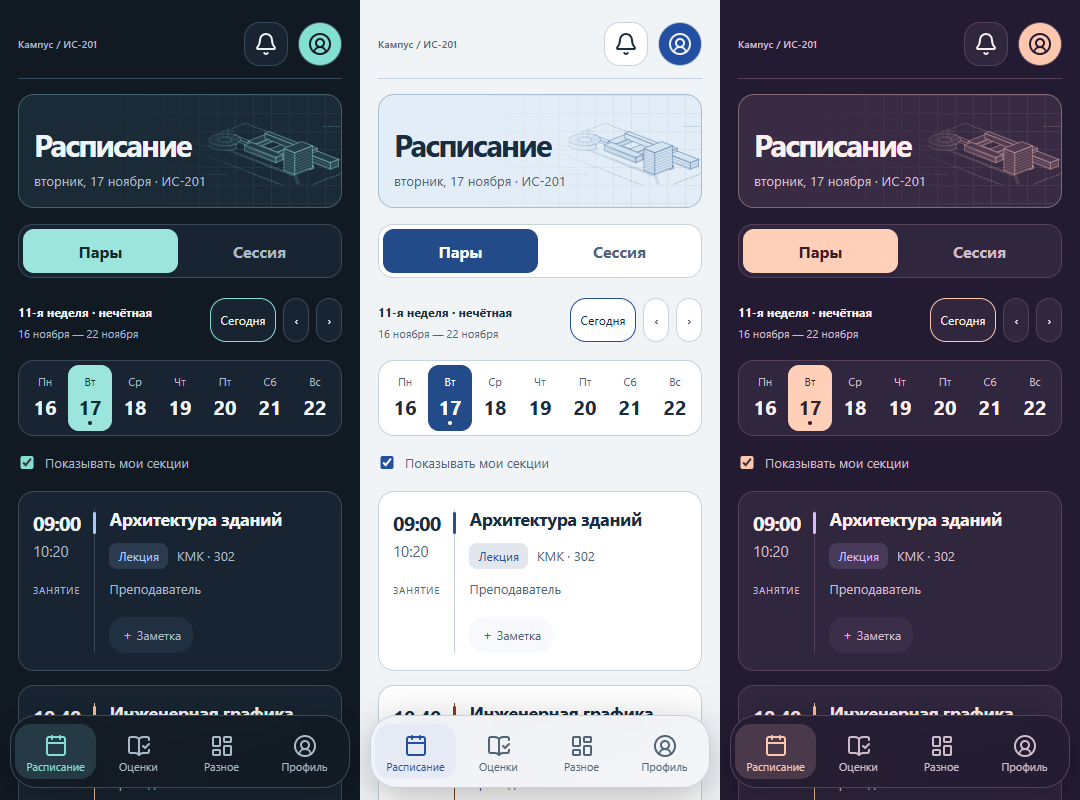
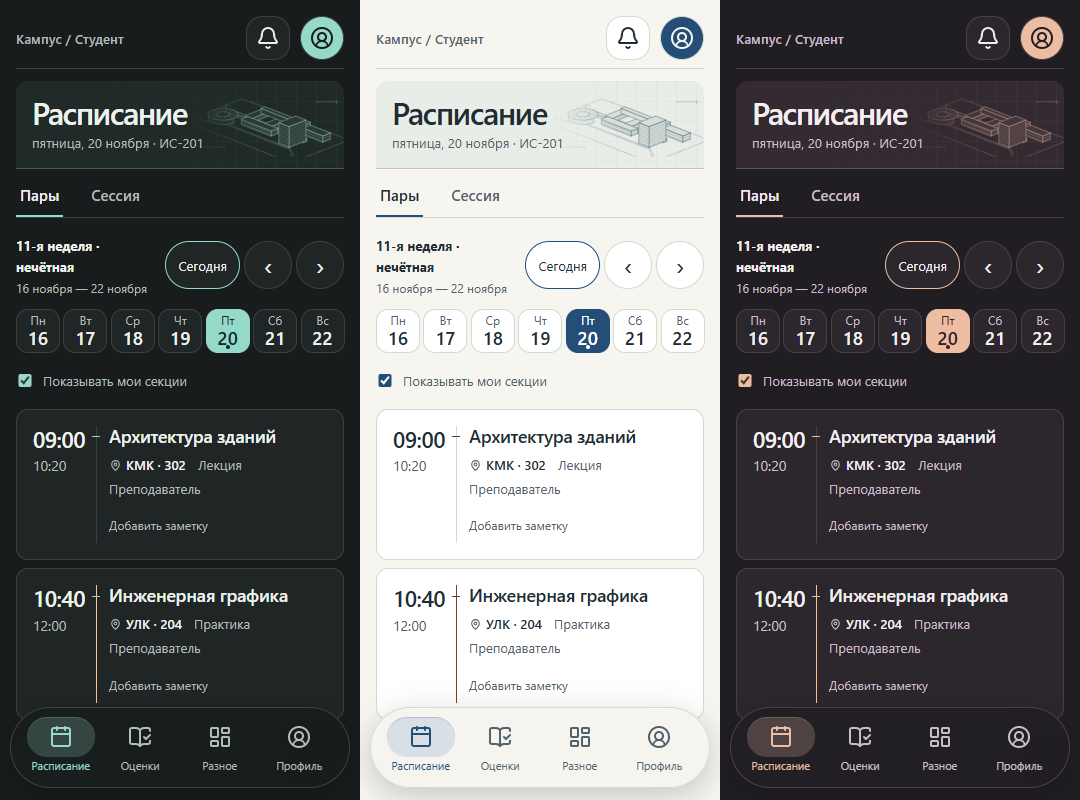
Уточнить оформление трёх тем и компоновку расписания

Changed region(s): [[0.0, 0.0, 1.0, 1.0], [0.55, 0.0, 0.7944, 0.0938], [0.0, 0.0312, 0.1222, 0.0625]]

diff --git a/public/style.css b/public/style.css
@@ -1,19 +1,19 @@
 *{box-sizing:border-box}
 :root{font-family:system-ui,-apple-system,'Segoe UI',sans-serif;color-scheme:dark}
 :root,.theme-sample[data-palette=dark]{
- --bg:#111923;--panel:#182431;--card:#203040;--ink:#eff5f6;--muted:#a9bac8;--line:#38495a;
- --accent:#83dfd1;--active:#9be5dc;--onactive:#102b30;--blue:#a6caff;--orange:#ffc192;--green:#91dfb3;--danger:#ffaba3;
- --cover:#1a2b37;--drawing:#85c9bf;--drawing-roof:#253d47;--rule:#42606b
+ --bg:#181c1c;--panel:#202525;--card:#2b3131;--ink:#edf2ee;--muted:#b1bdb7;--line:#394240;
+ --accent:#95d9c8;--active:#95d9c8;--onactive:#102b30;--blue:#a6caff;--orange:#ffc192;--green:#91dfb3;--danger:#ffaba3;
+ --cover:#202a28;--drawing:#87b8a9;--drawing-roof:#2c3934;--rule:#46564e
 }
 body[data-theme=light],.theme-sample[data-palette=light]{
- color-scheme:light;--bg:#f1f4f7;--panel:#fff;--card:#f7f9fc;--ink:#182c42;--muted:#506477;--line:#c7d2dc;
- --accent:#234fa3;--active:#234a89;--onactive:#fff;--blue:#294d91;--orange:#893c15;--green:#176444;--danger:#a4313c;
- --cover:#e3edf7;--drawing:#5379a3;--drawing-roof:#d5e4f1;--rule:#a5bed5
+ color-scheme:light;--bg:#f6f5ef;--panel:#fff;--card:#eeeee7;--ink:#202d33;--muted:#52616a;--line:#d6d9d1;
+ --accent:#244e78;--active:#244e78;--onactive:#fff;--blue:#294d91;--orange:#893c15;--green:#176444;--danger:#a4313c;
+ --cover:#e8ede8;--drawing:#526d7c;--drawing-roof:#d7dfda;--rule:#bac8c0
 }
 body[data-theme=violet],.theme-sample[data-palette=violet]{
- --bg:#231b31;--panel:#30263e;--card:#3a2e49;--ink:#fff0ee;--muted:#cebcca;--line:#524159;
- --accent:#ffc7ae;--active:#ffcfb7;--onactive:#381e2b;--blue:#d5bbff;--orange:#ffc18c;--green:#ace0bc;--danger:#ffa9aa;
- --cover:#382b43;--drawing:#d5a8a6;--drawing-roof:#503b50;--rule:#816876
+ --bg:#211e23;--panel:#2b272d;--card:#353038;--ink:#f4eef1;--muted:#c9bdc7;--line:#484048;
+ --accent:#edbda2;--active:#edbda2;--onactive:#381e2b;--blue:#d5bbff;--orange:#ffc18c;--green:#ace0bc;--danger:#ffa9aa;
+ --cover:#332b31;--drawing:#c19888;--drawing-roof:#44383c;--rule:#635453
 }
 body{margin:0;background:var(--bg);color:var(--ink)}button,input,select,textarea{font:inherit}button,a,input,select,textarea{-webkit-tap-highlight-color:transparent}button{cursor:pointer;color:inherit;border:1px solid var(--line);background:var(--panel);border-radius:16px;padding:12px 18px;min-height:44px}button:hover{border-color:var(--accent)}button:disabled{opacity:.5;cursor:wait}button:focus-visible,a:focus-visible,input:focus-visible,textarea:focus-visible,select:focus-visible{outline:3px solid var(--accent);outline-offset:3px}input,select,textarea{width:100%;background:var(--bg);color:var(--ink);border:1px solid var(--line);border-radius:12px;padding:13px;margin-top:6px;min-width:0}textarea{min-height:100px;resize:vertical}label{display:block;color:var(--muted);font-size:0.8125rem;margin:15px 0}h1,h2,h3,p{margin:0}h1{font-size:2.375rem;letter-spacing:-1.5px}h2{font-size:1.4375rem;letter-spacing:-.6px}h3{font-size:1.1875rem;line-height:1.35}p{line-height:1.6}small,.muted{color:var(--muted)}.shell{max-width:1500px;margin:auto;display:grid;grid-template-columns:240px 1fr;min-height:100vh}.sidebar{padding:38px 24px;border-right:1px solid var(--line);position:sticky;top:0;height:100vh;display:flex;flex-direction:column;gap:35px}.brand{display:flex;align-items:center;gap:12px;font-size:1.4375rem;font-weight:750;letter-spacing:2px}.logo{width:34px;height:34px;border:2px solid var(--accent);border-radius:50%;display:inline-grid;place-items:center;transform:rotate(-30deg)}.logo:after{content:'';width:41px;height:13px;border:2px solid var(--accent);border-radius:50%}.side-label{font-size:0.6875rem;letter-spacing:2px;color:var(--muted);margin-bottom:15px}.nav{display:flex;flex-direction:column;gap:8px}.nav button{border:0;background:transparent;text-align:left;display:flex;align-items:center;gap:12px;color:var(--muted);padding:15px}.nav button.active{background:var(--panel);color:var(--ink)}.icon{font-size:1.25rem;width:25px;display:inline-block;text-align:center}.sidebar footer{margin-top:auto;font-size:0.6875rem;color:var(--muted);line-height:1.7}.main{padding:30px 44px 60px;min-width:0}.top{display:flex;align-items:center;justify-content:space-between;margin-bottom:36px;gap:12px}.eyebrow{color:var(--muted);font-size:0.75rem;letter-spacing:1.7px;text-transform:uppercase}.avatar{border-radius:50%;background:var(--accent);color:var(--bg);height:44px;width:44px;padding:0;font-weight:700}.top-actions{display:flex;gap:10px}.heading{display:flex;justify-content:space-between;align-items:center;gap:12px;margin-bottom:28px}.heading p{margin-top:9px;color:var(--muted);font-size:0.875rem}.pill{border:1px solid var(--line);border-radius:30px;padding:8px 12px;font-size:0.75rem;color:var(--muted);white-space:nowrap}.schedule-layout{display:grid;grid-template-columns:minmax(0,1fr) 260px;gap:28px}.segmented{display:flex;background:var(--panel);padding:5px;border-radius:22px;margin-bottom:25px;gap:4px}.segmented button{flex:1;border:0;background:transparent;color:var(--muted);font-weight:650}.segmented button.active{background:var(--active);color:var(--onactive)}.weekbar{display:flex;justify-content:space-between;align-items:center;gap:8px;margin-bottom:18px}.weekbar strong{font-size:0.875rem}.weekbar small{display:block;font-size:0.75rem;margin-top:5px}.week-actions{display:flex;gap:7px}.week-actions button{padding:8px 13px}.days{display:grid;grid-template-columns:repeat(7,minmax(0,1fr));gap:8px;margin-bottom:28px}.day{padding:14px 0;border-radius:21px;position:relative}.day span{display:block;font-size:0.75rem;color:var(--muted);margin-bottom:8px}.day strong{font-size:1.4375rem}.day.active{background:var(--active);color:var(--onactive);border-color:var(--active)}.day.today:after{content:'';display:block;position:absolute;bottom:5px;left:calc(50% - 2px);width:4px;height:4px;border-radius:50%;background:var(--blue)}.lesson{display:grid;grid-template-columns:92px 1fr;gap:22px;border:1px solid var(--line);border-radius:27px;background:linear-gradient(140deg,var(--card),var(--panel));padding:25px;margin-bottom:14px}.lesson-time{border-right:3px solid var(--blue);padding-right:16px}.lesson-time strong{font-size:1.5rem;display:block;letter-spacing:-.8px}.lesson-time span{display:block;color:var(--muted);margin-top:5px}.lesson-time small{display:block;font-size:0.625rem;letter-spacing:1.7px;margin-top:22px}.lesson.practice .lesson-time{border-color:var(--orange)}.lesson.lab .lesson-time{border-color:var(--green)}.lesson h3{margin-bottom:12px}.meta{display:flex;align-items:center;flex-wrap:wrap;gap:9px;font-size:0.8125rem;color:var(--muted)}.badge{padding:5px 9px;border-radius:8px;color:var(--blue);background:color-mix(in srgb,var(--blue) 14%,transparent);font-size:0.75rem}.practice .badge{color:var(--orange);background:color-mix(in srgb,var(--orange) 14%,transparent)}.lab .badge{color:var(--green);background:color-mix(in srgb,var(--green) 14%,transparent)}.teacher{font-size:0.8125rem;color:var(--muted);margin-top:10px}.note{margin-top:17px;font-size:0.75rem;padding:7px 12px;min-height:36px;border:0;background:var(--card);color:var(--muted)}.gap{border:1px dashed var(--line);border-radius:20px;padding:16px 22px;margin:0 0 14px;color:var(--muted);font-size:0.8125rem;display:flex;align-items:center;gap:15px}.gap span{color:var(--orange);font-size:1.375rem}.aside-card{background:var(--panel);border:1px solid var(--line);border-radius:23px;padding:23px;margin-bottom:18px}.aside-card h3{font-size:1rem;margin-bottom:12px}.aside-card p{color:var(--muted);font-size:0.8125rem}.aside-card .big{font-size:2.625rem;letter-spacing:-2px;margin:10px 0;color:var(--ink)}.link-button{border:0;padding:0;color:var(--accent);background:transparent;font-size:0.8125rem;margin-top:12px;text-align:left}.grid{display:grid;grid-template-columns:repeat(2,minmax(0,1fr));gap:18px}.card{background:var(--panel);border:1px solid var(--line);border-radius:23px;padding:24px}.card p{font-size:0.875rem;color:var(--muted);margin:12px 0}.card .badge{display:inline-block;margin-bottom:14px}.card button{margin-top:15px}.primary{background:var(--active);color:var(--onactive);font-weight:650}.empty{text-align:center;padding:55px 20px;border:1px dashed var(--line);border-radius:24px}.empty .symbol{font-size:2.5rem;margin-bottom:18px;color:var(--accent)}.empty p{color:var(--muted);margin:12px 0 20px}.list{display:flex;flex-direction:column;gap:14px}.row{display:flex;gap:20px;justify-content:space-between;align-items:center}.score{font-size:2rem;font-weight:700;color:var(--green)}.login{max-width:440px;margin:9vh auto;padding:30px}.login .brand{margin-bottom:46px}.login h1{font-size:2.125rem}.login p{color:var(--muted);margin-top:12px}.login form{margin:28px 0}.login .primary{width:100%;margin-top:15px}.login footer{font-size:0.75rem;color:var(--muted);line-height:1.7}.error{color:#ff9292;font-size:0.8125rem}.mobile-nav{display:none}.theme-grid{display:flex;gap:12px;flex-wrap:wrap;margin:20px 0}.theme-grid button.active{border:2px solid var(--accent)}dialog{background:var(--panel);color:var(--ink);border:1px solid var(--line);border-radius:24px;width:min(94vw,540px);padding:26px;max-height:90vh}dialog::backdrop{background:#0009;backdrop-filter:blur(5px)}.form-actions{display:flex;gap:12px;margin-top:22px}.form-actions button{flex:1}#toast{position:fixed;bottom:100px;left:50%;transform:translateX(-50%);background:var(--active);color:var(--onactive);padding:14px 22px;border-radius:16px;display:none;max-width:90vw;z-index:10;box-shadow:0 8px 40px #0004}.loading{color:var(--muted);padding:45px}.filter{display:flex;gap:10px;flex-wrap:wrap;margin-bottom:22px}.filter button.active{background:var(--active);color:var(--onactive)}.banner{font-size:0.75rem;color:var(--muted);margin:26px 0 0}.checkline{display:flex;align-items:center;gap:9px;margin-bottom:20px}.checkline input{width:18px;margin:0}.request-detail{white-space:pre-wrap}.manage-section{margin:25px 0}.manage-section h2{margin-bottom:18px}details{margin:16px 0}summary{cursor:pointer;padding:12px 0;color:var(--accent)}
 .management-tabs{display:flex;gap:8px;flex-wrap:wrap;margin-bottom:28px}.management-tabs button{font-size:0.8125rem}.management-tabs button.active{background:var(--active);color:var(--onactive)}.editor-grid{display:grid;grid-template-columns:repeat(2,minmax(0,1fr));gap:0 20px}.record-sub{display:block;font-weight:400;font-size:0.8125rem;color:var(--muted);margin-top:8px;line-height:1.5}.create-card{margin:20px 0}.managed-record{margin:0}.managed-record[hidden]{display:none}.download{color:var(--accent)}.change-notice{font-size:0.8125rem;margin-top:12px;color:var(--orange);line-height:1.5}.score{max-width:150px;font-size:1.625rem}.editor .primary{margin-top:16px}@media(max-width:720px){.editor-grid{grid-template-columns:1fr}.management-tabs{flex-wrap:nowrap;overflow:auto;padding-bottom:10px}.management-tabs button{white-space:nowrap}.score{font-size:1.25rem}}
@@ -41,11 +41,7 @@ button.danger{color:var(--red,#ff746f);border:1px solid currentColor;margin-top:
 .service-card{display:flex;flex-direction:column;align-items:flex-start;gap:16px;min-width:0;text-align:left;padding:20px;border-radius:22px}
 .service-card:last-child:nth-child(odd){grid-column:1/-1;flex-direction:row;align-items:center}
 .service-icon{display:grid;place-items:center;flex:none;width:44px;height:44px;border-radius:14px;background:#b94764;color:white}
-.service-card[data-page=campus] .service-icon{background:#5064c5}
-.service-card[data-page=teachers] .service-icon{background:#7651be}
-.service-card[data-page=clubs] .service-icon{background:#af6416}
-.service-card[data-page=contacts] .service-icon{background:#277a70}
-.service-card[data-page=dating] .service-icon,.service-card[data-page=datingAdmin] .service-icon{background:#b03961}
+
 .dating-wrap{max-width:620px}
 .dating-heading{display:flex;align-items:center;justify-content:space-between;gap:10px;margin-bottom:18px;flex-wrap:wrap}
 .dating-heading h1{margin:0}
@@ -202,11 +198,7 @@ body[data-custom-accent=yes] .mobile-nav button.active{color:var(--accent)}
 .personal-details div+div,.profile-detail form+form{margin-top:16px;padding-top:16px;border-top:1px solid var(--line)}
 .personal-details dt{color:var(--muted);font-size:.875rem}
 .personal-details dd{margin:4px 0 0}
-.service-card[data-page=appearance] .service-icon{background:#7150a8}
-.service-card[data-page=personal] .service-icon{background:#4663aa}
-.service-card[data-page=emailSettings] .service-icon{background:#277a70}
-.service-card[data-page=passwordSettings] .service-icon{background:#986028}
-.service-card[data-page=support] .service-icon{background:#36658d}
+
 .service-copy strong,.service-copy>span{overflow-wrap:anywhere}
 .appearance-form{display:grid;gap:16px;margin-top:20px}
 .appearance-fields{display:grid;grid-template-columns:repeat(2,minmax(0,1fr));gap:16px;margin:0;min-width:0}
@@ -412,13 +404,132 @@ input[type=checkbox],input[type=radio]{accent-color:var(--accent)}
   .week-actions button:active, .primary:active, .section-tabs button:active { transform: scale(.96); }
   .service-card:active { transform: scale(.985); }
   #content[data-arrival=page] { animation: portal-content-in 240ms cubic-bezier(.2,.7,.2,1); }
-  #content[data-arrival=later] .days, #content[data-arrival=earlier] .days {
+  #content[data-week-change][data-arrival=later] .days, #content[data-week-change][data-arrival=earlier] .days {
     animation: agenda-in 240ms ease-out;
   }
-  #content[data-arrival=later] .days { --agenda-offset: 10px; }
-  #content[data-arrival=earlier] .days { --agenda-offset: -10px; }
+  #content[data-week-change][data-arrival=later] .days { --agenda-offset: 10px; }
+  #content[data-week-change][data-arrival=earlier] .days { --agenda-offset: -10px; }
 }
 @keyframes portal-content-in {
   from { opacity: 0; transform: translateY(8px); }
   to { opacity: 1; transform: translateY(0); }
+}
+
+/* Campus timetable: a drawing in the header and a ruled column for time. */
+.brand { font-weight: 600; letter-spacing: .04em; }
+h1, h2, h3, .service-copy strong, .day strong { font-weight: 600; }
+.side-label, .eyebrow { text-transform: none; letter-spacing: 0; font-size: .8125rem; }
+.sidebar .nav button { padding: 10px 12px; border-radius: 8px; }
+.schedule-cover {
+  min-height: 128px;
+  padding: 24px;
+  background: var(--cover);
+  border: 0;
+  border-bottom: 1px solid var(--rule);
+  border-radius: 12px 12px 0 0;
+}
+.schedule-cover h1 { font-weight: 550; letter-spacing: -.04em; }
+.schedule-cover .campus-drawing { right: 0; height: 112%; }
+.schedule-cover::before { background-size: 20px 20px; opacity: .16; }
+.schedule-layout .segmented {
+  padding: 0;
+  gap: 24px;
+  margin-bottom: 16px;
+  border: 0;
+  border-radius: 0;
+  border-bottom: 1px solid var(--line);
+  background: transparent;
+}
+.schedule-layout .segmented button {
+  flex: none;
+  padding: 8px 4px;
+  border-radius: 0;
+  font-size: .9375rem;
+  font-weight: 500;
+}
+.schedule-layout .segmented button.active {
+  color: var(--ink);
+  background: transparent;
+  box-shadow: inset 0 -2px var(--accent);
+}
+.weekbar {
+  display: grid;
+  grid-template-columns: minmax(0, 1fr) auto;
+  gap: 8px;
+  margin-bottom: 12px;
+}
+.weekbar small { line-height: 1.4; margin-top: 4px; }
+.week-actions { gap: 4px; }
+.week-actions button { padding-inline: 12px; }
+.week-actions button[data-shift] { padding: 0; }
+.days { margin-bottom: 12px; max-width: 560px; }
+.day { max-height: 72px; }
+.day span { font-size: .75rem; }
+.day.today::after { bottom: 3px; }
+.checkline { min-height: 32px; margin: 0 0 12px; }
+.lesson {
+  padding: 20px;
+  grid-template-columns: 5.5rem minmax(0, 1fr);
+  gap: 20px;
+  margin-bottom: 8px;
+  border-radius: 12px;
+}
+.lesson .lesson-time {
+  display: flex;
+  flex-direction: column;
+  align-items: flex-start;
+  gap: 4px;
+  padding-inline-end: 12px;
+  border-color: var(--line);
+}
+.lesson-time strong { font-size: 1.375rem; font-weight: 600; line-height: 1.2; letter-spacing: -.02em; }
+.lesson-time span { margin: 0; font-size: .875rem; }
+.lesson-time::after {
+  right: -4px;
+  top: .65rem;
+  width: 8px;
+  height: 1px;
+  border-radius: 0;
+  background: var(--accent);
+}
+.lesson h3 { font-size: 1.125rem; margin-bottom: 8px; letter-spacing: -.015em; }
+.lesson .meta { gap: 4px 12px; line-height: 1.45; }
+.lesson-room { display: inline-flex; align-items: baseline; gap: 4px; color: var(--ink); font-weight: 500; overflow-wrap: anywhere; }
+.lesson-room .ui-icon { width: 1em; height: 1em; flex: none; align-self: center; color: var(--muted); }
+.lesson-kind { color: var(--muted); }
+.lesson .teacher { margin-top: 4px; }
+.lesson .note { margin-top: 8px; padding: 4px 0; background: transparent; border-radius: 4px; text-align: left; color: var(--muted); overflow-wrap: anywhere; }
+.lesson .note:hover { color: var(--ink); text-decoration: underline; }
+.aside-card { padding: 20px; border-radius: 12px; }
+.services-grid { gap: 0 24px; }
+.services-grid .service-card, .services-grid .service-card:last-child:nth-child(odd) {
+  display: flex;
+  flex-direction: row;
+  align-items: center;
+  padding: 16px 4px;
+  gap: 12px;
+  border: 0;
+  border-bottom: 1px solid var(--line);
+  border-radius: 0;
+  background: transparent;
+}
+.services-grid .service-card:hover { background: var(--panel); }
+.service-icon { width: 32px; height: 36px; background: transparent; color: var(--muted); }
+.service-icon .ui-icon { width: 22px; height: 22px; }
+.service-copy { gap: 4px; }
+.service-copy strong { font-size: 1rem; }
+@media (max-width: 720px) {
+  .main { padding: 16px 16px 112px; }
+  .top { margin-bottom: 12px; padding-bottom: 8px; }
+  .schedule-cover { padding: 16px; min-height: 88px; margin-bottom: 4px; }
+  .schedule-cover .heading { width: 72%; }
+  .schedule-cover p { margin-top: 4px; }
+  .schedule-cover .campus-drawing { right: -5%; width: 52%; }
+  .weekbar strong { font-size: .8125rem; }
+  .weekbar small { font-size: .75rem; }
+  .days { gap: 4px; }
+  .day { padding: 4px 0 6px; border-radius: 12px; }
+  .day span { margin-bottom: 0; }
+  .lesson { grid-template-columns: 4rem minmax(0, 1fr); gap: 12px; padding: 16px; }
+  .services-grid { grid-template-columns: 1fr; }
 }

diff --git a/public/appearance-ui.js b/public/appearance-ui.js
@@ -1,10 +1,10 @@
 const themes = {dark: 'Тёмная', light: 'Светлая', violet: 'Сумерки'};
 const fonts = {system: 'Системный', sans: 'Без засечек (Arial)', serif: 'С засечками (Georgia)', mono: 'Моноширинный'};
 const sizes = {compact: 'Компактный', normal: 'Обычный', large: 'Крупный', larger: 'Очень крупный'};
-const accents = {dark: '#83dfd1', light: '#234fa3', violet: '#ffc7ae'};
+const accents = {dark: '#95d9c8', light: '#244e78', violet: '#edbda2'};
 // The lightest dark surface or darkest light surface in each theme.
-const surfaces = {dark: '#203040', light: '#e3edf7', violet: '#3a2e49'};
-const textColors = {dark: '#eff5f6', light: '#182c42', violet: '#fff0ee'};
+const surfaces = {dark: '#2b3131', light: '#e8ede8', violet: '#353038'};
+const textColors = {dark: '#edf2ee', light: '#202d33', violet: '#f4eef1'};
 const defaults = {theme: 'dark', font: 'system', text_size: 'normal', accent: 'auto', text_color: 'auto'};
 
 function channels(hex) {

diff --git a/public/blocks.css b/public/blocks.css
@@ -12,7 +12,7 @@ body:has(.blocks-root){margin:0;background:#0a1025}
 }
 .blocks-root::before{content:"";position:absolute;inset:0;pointer-events:none;z-index:-1;opacity:.29;background-image:radial-gradient(#8ca2cc66 1px,transparent 1px);background-size:19px 19px;mask-image:linear-gradient(140deg,black,transparent 75%)}
 .blocks-root [hidden]{display:none!important}
-.service-card[data-page=blocks] .service-icon{background:linear-gradient(145deg,#406bb2,#44419c)}
+
 .blocks-root [data-bl-status]{position:absolute;width:1px;height:1px;overflow:hidden;clip-path:inset(50%);white-space:nowrap}
 .blocks-root button{font:inherit;color:inherit;cursor:pointer;touch-action:manipulation;min-height:44px}
 .blocks-root button:focus-visible,.bl-board:focus-visible{outline:3px solid #9ef1ff;outline-offset:3px}
